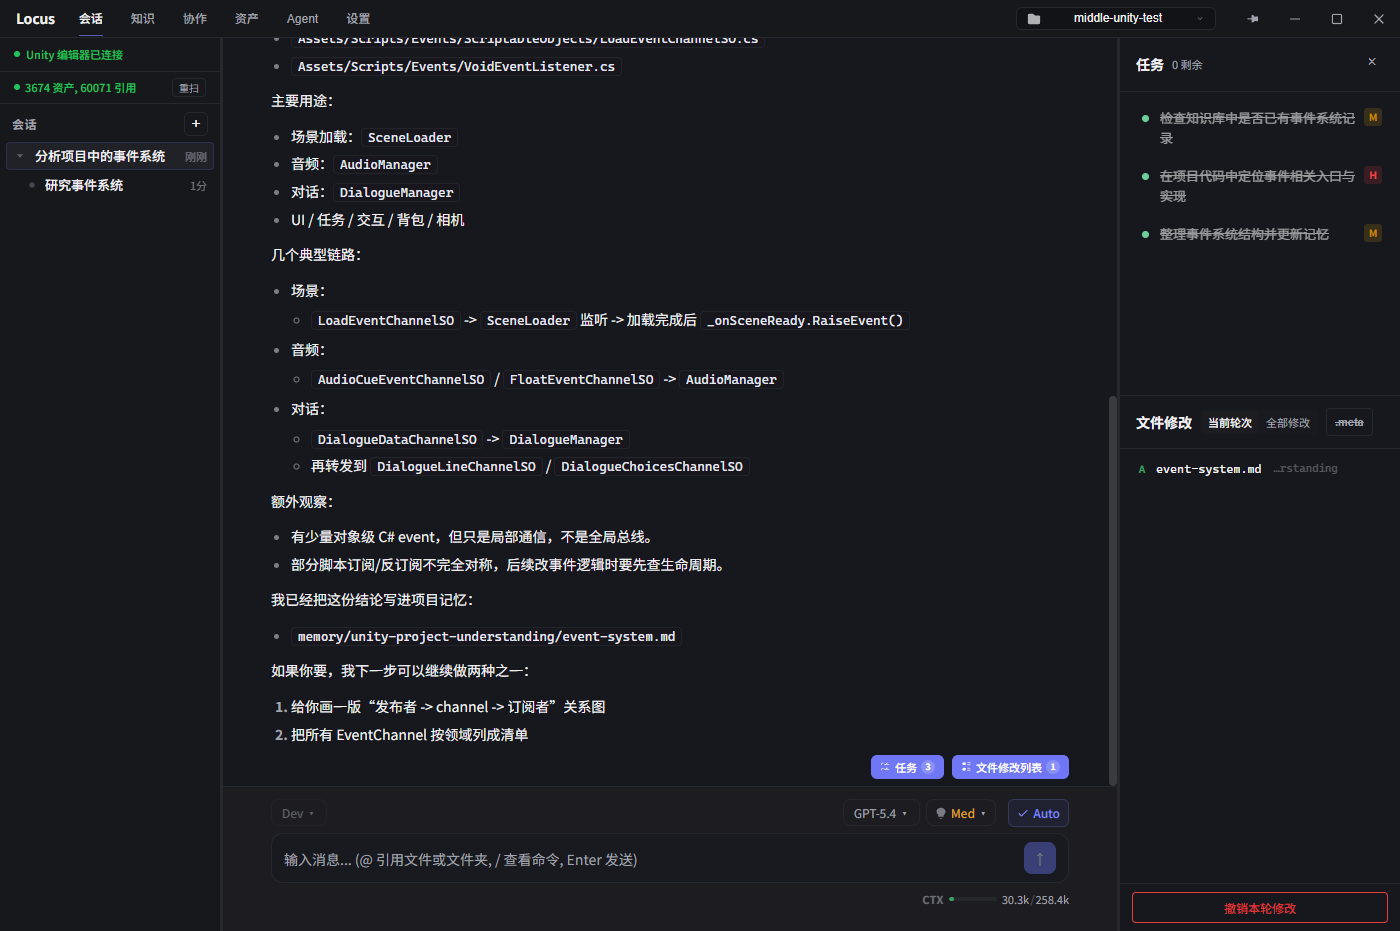
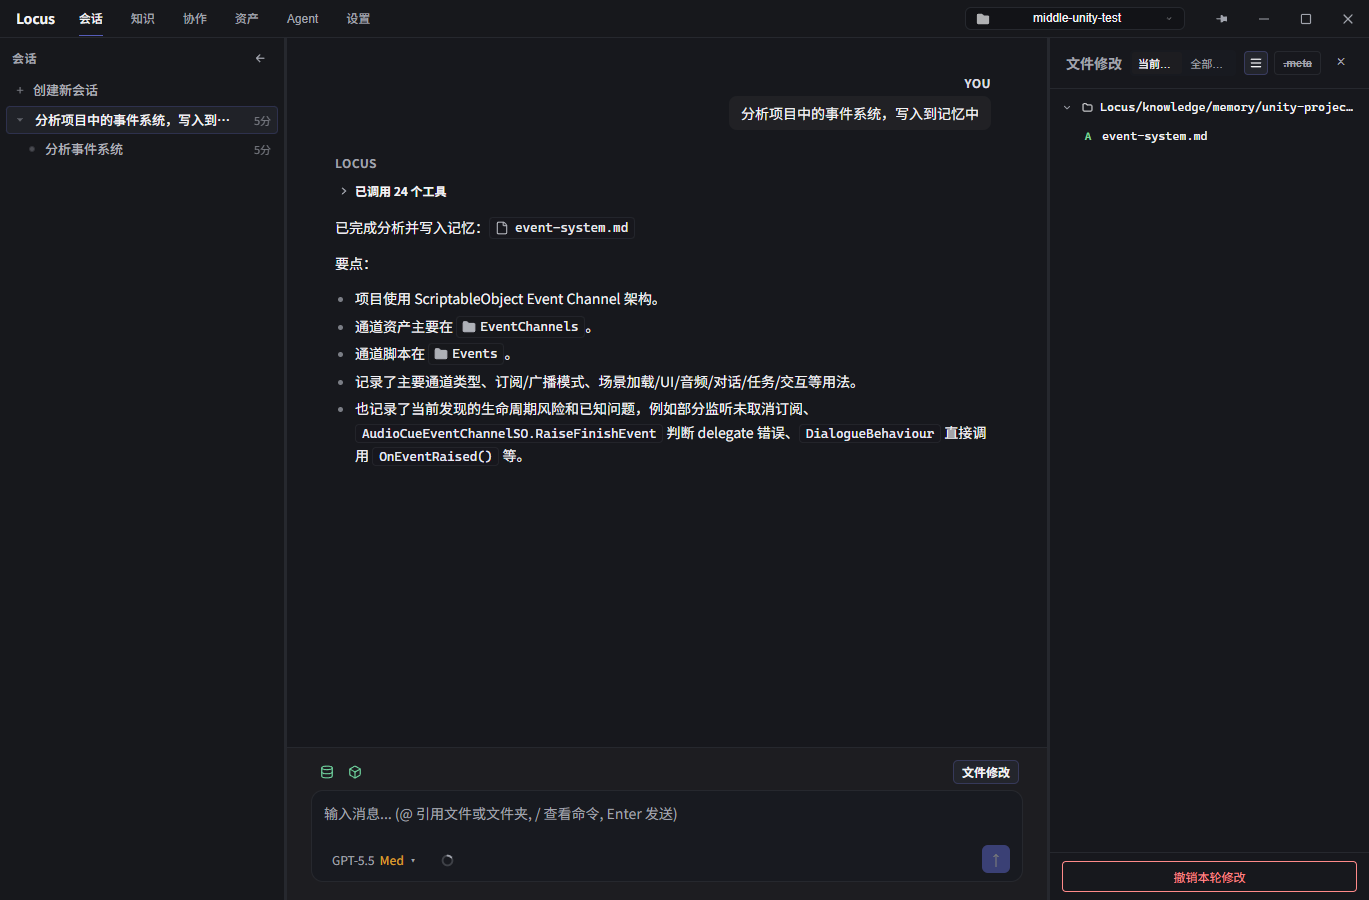
docs: refresh roadmap and showcases

diff --git a/README.md b/README.md
@@ -14,9 +14,9 @@ English | [简体中文](README.zh-CN.md)
 `Locus for Unity` is an open-source AI Agent for Unity projects.
 
 - **In-editor operations**: write C# code, read and modify Unity objects and assets, and complete the full feature development workflow
+- **Runtime analysis and debugging**: autonomously operate and capture runtime state to help fix bugs and optimize performance
 - **Automated knowledge system**: automatically summarize conversation requirements into design documents and preserve project understanding in long-term memory
 - **Visual version control**: provide a visual version control interface with semantic diff analysis and conflict handling for Unity YAML assets
-- **Highly optimized prompts**: optimize prompts for Unity projects, improve Agent capability, and avoid common mistakes
 - **Multiple model support**: support subscription account sign-in and compatibility with multiple LLM API capabilities
 
 Locus is currently in early testing (`v0.2.2`). We welcome you to try it and share feedback through Issues. Your input is highly valuable to us.

diff --git a/README.zh-CN.md b/README.zh-CN.md
@@ -14,9 +14,9 @@
 `Locus for Unity`是一个面向Unity项目的**开源**AI Agent。
 
 - **编辑器内操作**：编写C#代码、读入并修改Unity对象与资产，完成完整功能开发流程
+- **运行时分析与调试**：自主操作并捕获运行时状态，协助你修复BUG、优化性能
 - **自动化知识系统**：自动将对话需求总结成设计文档，并将项目理解保存在长期记忆中
 - **可视化版本管理**：提供可视化的版本管理界面，支持Unity YAML资产的语义化差异分析与冲突处理
-- **高度优化的提示词**：针对于Unity项目优化提示词，提高Agent能力，规避常见错误
 - **多种模型支持**：支持订阅帐号登录，并兼容多种LLM API能力
 
 Locus 目前仍然处于早期测试状态（v0.2.2），欢迎您试用并通过Issue提出反馈，您的意见对我们非常重要！
